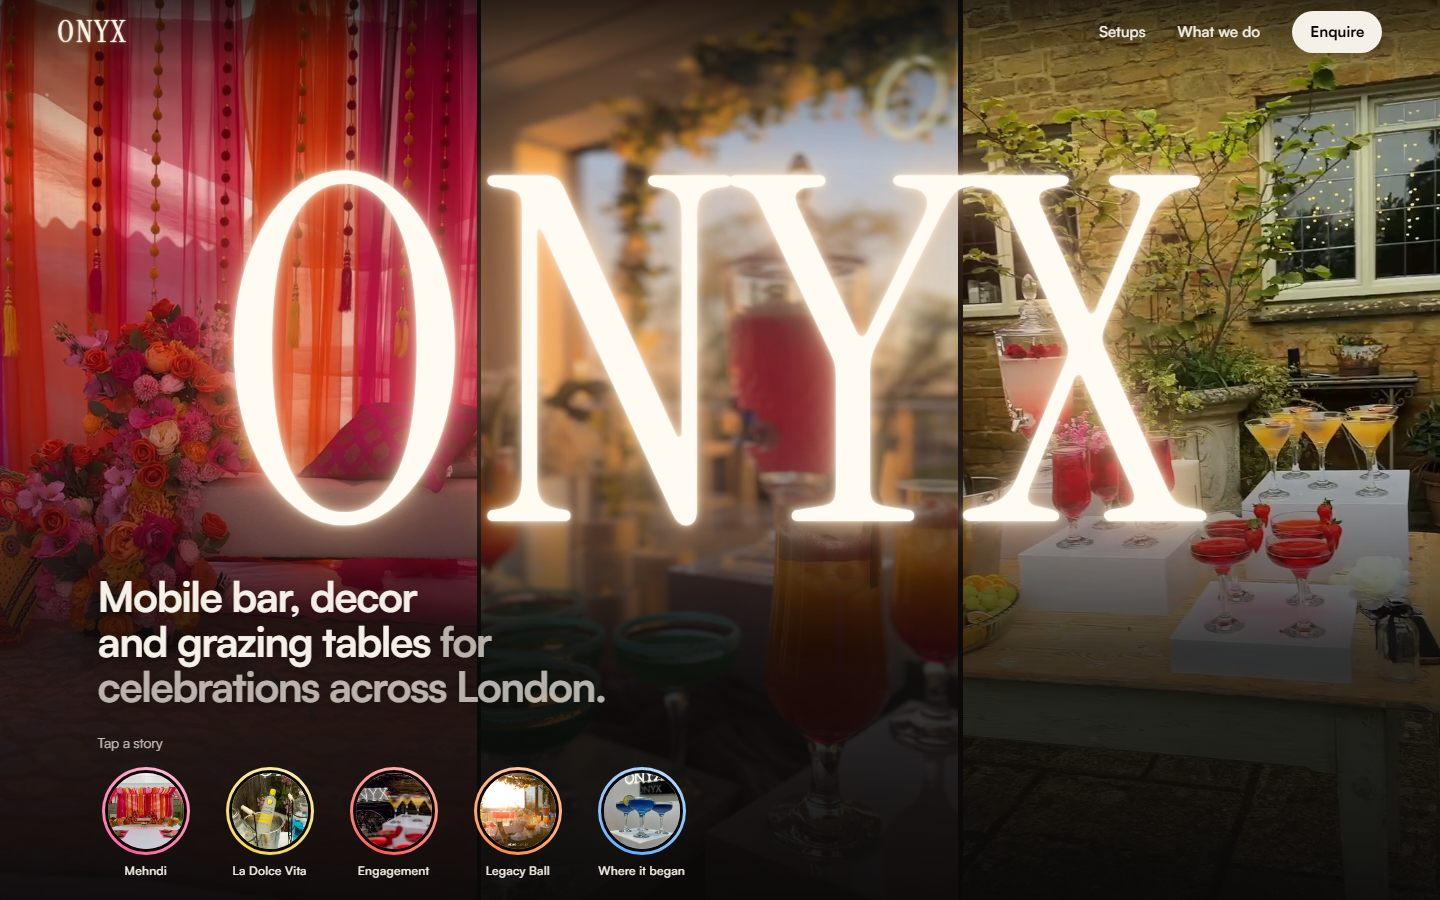
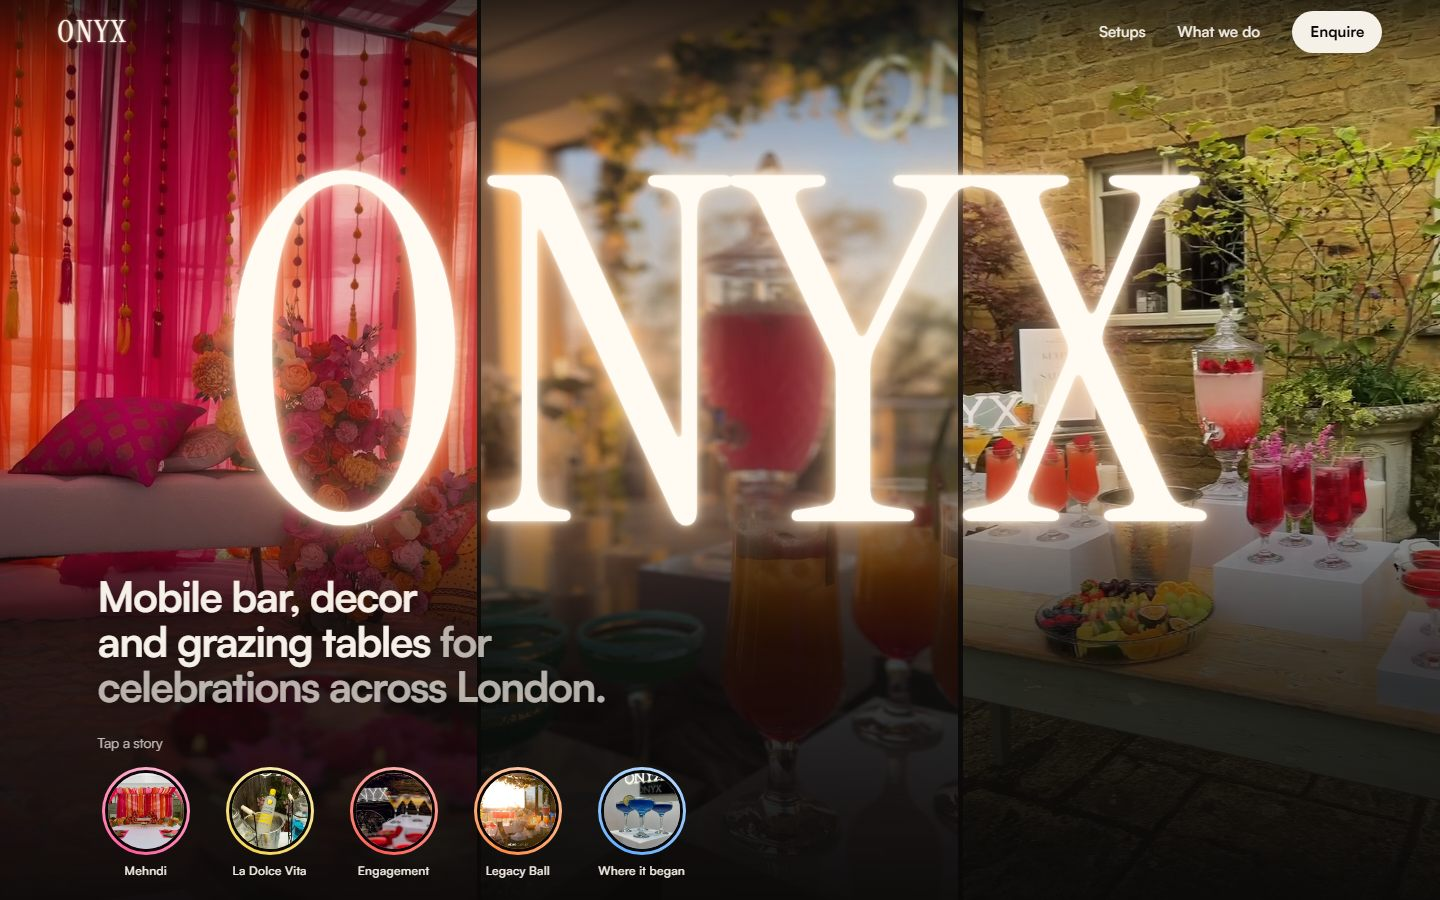
Startanimation mit Onyx Events London, neuer SNP-Screenshot
- Plan → Bau zeigt jetzt Onyx Events: neuer Plan und neue Bauteile
  (Navigation, Logo, Headline, Stories) für Desktop und Handy
- SNP-Projektkarte mit dem aktuellen Stand der Website
- Alter SNP-Handy-Screenshot entfernt

diff --git a/index.html b/index.html
@@ -123,22 +123,22 @@
     </div>
   </section>
 
-  <!-- ══ PLAN → BAU (baut sich selbst) ═════════════ -->
-  <section class="build" id="build" aria-label="Vom Plan zur fertigen Website am Beispiel SNP Performance">
+  <!-- ══ PLAN → BAU (Bauteil für Bauteil) ══════════ -->
+  <section class="build" id="build" aria-label="Vom Plan zur fertigen Website am Beispiel Onyx Events London">
     <div class="build__stage">
       <div class="wrap build__bar mono">
         <span class="build__phase"><i class="build__dot"></i>Phase: <b id="buildPhase">Plan</b></span>
         <span class="build__progress"><span id="buildPct">0</span>% gebaut</span>
         <button class="build__replay mono" id="buildReplay" type="button" hidden>↻ Nochmal bauen</button>
-        <span class="build__ref">Beispiel: snpperformance.ch</span>
+        <span class="build__ref">Beispiel: onyxeventsldn.co.uk</span>
       </div>
 
       <div class="wrap">
         <div class="build__site">
         <div class="build__frame" id="buildFrame">
           <picture>
-            <source media="(max-width: 760px)" srcset="assets/img/work/snpperformance-mobile.jpg" width="390" height="624" />
-            <img class="build__real" id="buildReal" src="assets/img/work/snpperformance.jpg" alt="Fertige Website von SNP Performance" width="1440" height="900" />
+            <source media="(max-width: 760px)" srcset="assets/img/work/onyxevents-mobile.jpg?v=2" width="390" height="624" />
+            <img class="build__real" id="buildReal" src="assets/img/work/onyxevents.jpg?v=2" alt="Fertige Website von Onyx Events London" width="1440" height="900" />
           </picture>
 
           <div class="build__plan" id="buildPlan" aria-hidden="true">
@@ -146,9 +146,6 @@
               <defs>
                 <pattern id="grid" width="24" height="24" patternUnits="userSpaceOnUse">
                   <path d="M24 0H0v24" class="p-grid" />
-                </pattern>
-                <pattern id="hatch" width="14" height="14" patternUnits="userSpaceOnUse" patternTransform="rotate(45)">
-                  <path d="M0 0v14" class="p-hatch" />
                 </pattern>
                 <marker id="tick" viewBox="0 0 10 10" refX="5" refY="5" markerWidth="10" markerHeight="10" orient="auto">
                   <path d="M2 8L8 2" class="p-dim" />
@@ -158,62 +155,60 @@
               <rect width="1440" height="900" class="p-paper" />
               <rect width="1440" height="900" fill="url(#grid)" />
 
+              <!-- Bildwand: drei Bildspalten -->
+              <line x1="480" y1="66" x2="480" y2="900" class="p-thin" />
+              <line x1="960" y1="66" x2="960" y2="900" class="p-thin" />
+              <text x="1200" y="610" class="p-label" text-anchor="middle">BILD 03</text>
+
               <!-- Navigation -->
               <line x1="0" y1="66" x2="1440" y2="66" class="p-line" />
-              <rect x="44" y="14" width="38" height="38" rx="8" class="p-line" />
-              <rect x="94" y="22" width="190" height="20" class="p-block" />
-              <rect x="636" y="27" width="82" height="12" class="p-block" />
-              <rect x="746" y="27" width="60" height="12" class="p-block" />
-              <rect x="834" y="27" width="28" height="12" class="p-block" />
-              <rect x="890" y="27" width="56" height="12" class="p-block" />
-              <rect x="1299" y="14" width="98" height="38" rx="19" class="p-line" />
+              <rect x="58" y="20" width="70" height="24" class="p-block" />
+              <rect x="1098" y="27" width="48" height="12" class="p-block" />
+              <rect x="1177" y="27" width="84" height="12" class="p-block" />
+              <rect x="1292" y="11" width="90" height="42" rx="21" class="p-line" />
 
-              <!-- Eyebrow + Headline -->
-              <rect x="150" y="186" width="386" height="12" class="p-block p-block--accent" />
-              <rect x="150" y="214" width="424" height="366" class="p-line" />
-              <path d="M150 214L574 580M574 214L150 580" class="p-thin" />
-              <text x="362" y="404" class="p-label" text-anchor="middle">H1 · HEADLINE</text>
+              <!-- Wortmarke -->
+              <rect x="232" y="170" width="968" height="356" class="p-line" />
+              <path d="M232 170L1200 526M1200 170L232 526" class="p-thin" />
+              <rect x="590" y="334" width="252" height="30" class="p-paper" />
+              <text x="716" y="355" class="p-label" text-anchor="middle">LOGO · WORTMARKE</text>
 
-              <!-- Text -->
-              <rect x="150" y="620" width="488" height="14" class="p-block" />
-              <rect x="150" y="652" width="460" height="14" class="p-block" />
-              <rect x="150" y="684" width="92" height="14" class="p-block" />
+              <line x1="232" y1="140" x2="1200" y2="140" class="p-dim" marker-start="url(#tick)" marker-end="url(#tick)" />
+              <line x1="232" y1="130" x2="232" y2="160" class="p-dim" />
+              <line x1="1200" y1="130" x2="1200" y2="160" class="p-dim" />
+              <rect x="686" y="128" width="60" height="24" class="p-paper" />
+              <text x="716" y="146" class="p-dimtext" text-anchor="middle">968</text>
 
-              <!-- Buttons -->
-              <rect x="150" y="740" width="180" height="48" rx="24" class="p-line p-fill-accent" />
-              <rect x="344" y="740" width="224" height="48" rx="24" class="p-line" />
+              <!-- Headline -->
+              <rect x="98" y="584" width="318" height="30" class="p-block" />
+              <rect x="98" y="629" width="392" height="30" class="p-block" />
+              <rect x="98" y="674" width="508" height="30" class="p-block p-block--accent" />
 
-              <!-- Bildfläche -->
-              <rect x="751" y="262" width="538" height="660" rx="24" fill="url(#hatch)" class="p-line" />
-              <rect x="931" y="530" width="178" height="40" class="p-paper" />
-              <text x="1020" y="556" class="p-label" text-anchor="middle">BILDFLÄCHE</text>
-
-              <!-- Masslinien -->
-              <line x1="751" y1="232" x2="1289" y2="232" class="p-dim" marker-start="url(#tick)" marker-end="url(#tick)" />
-              <line x1="751" y1="222" x2="751" y2="252" class="p-dim" />
-              <line x1="1289" y1="222" x2="1289" y2="252" class="p-dim" />
-              <rect x="990" y="220" width="60" height="24" class="p-paper" />
-              <text x="1020" y="238" class="p-dimtext" text-anchor="middle">538</text>
-
-              <line x1="112" y1="214" x2="112" y2="580" class="p-dim" marker-start="url(#tick)" marker-end="url(#tick)" />
-              <line x1="102" y1="214" x2="132" y2="214" class="p-dim" />
-              <line x1="102" y1="580" x2="132" y2="580" class="p-dim" />
-              <rect x="98" y="378" width="28" height="52" class="p-paper" />
-              <text x="112" y="404" class="p-dimtext" text-anchor="middle" transform="rotate(-90 112 404)">366</text>
-
-              <line x1="150" y1="816" x2="568" y2="816" class="p-dim" marker-start="url(#tick)" marker-end="url(#tick)" />
-              <rect x="330" y="804" width="58" height="24" class="p-paper" />
-              <text x="359" y="822" class="p-dimtext" text-anchor="middle">418</text>
+              <!-- Stories -->
+              <rect x="98" y="738" width="66" height="10" class="p-block" />
+              <circle cx="145" cy="810" r="43" class="p-line" />
+              <circle cx="269" cy="810" r="43" class="p-line" />
+              <circle cx="393" cy="810" r="43" class="p-line" />
+              <circle cx="517" cy="810" r="43" class="p-line" />
+              <circle cx="641" cy="810" r="43" class="p-line p-fill-accent" />
+              <rect x="121" y="865" width="48" height="9" class="p-block" />
+              <rect x="235" y="865" width="68" height="9" class="p-block" />
+              <rect x="356" y="865" width="74" height="9" class="p-block" />
+              <rect x="485" y="865" width="64" height="9" class="p-block" />
+              <rect x="598" y="865" width="86" height="9" class="p-block" />
+              <line x1="102" y1="726" x2="684" y2="726" class="p-dim" marker-start="url(#tick)" marker-end="url(#tick)" />
+              <rect x="363" y="714" width="56" height="24" class="p-paper" />
+              <text x="391" y="732" class="p-dimtext" text-anchor="middle">582</text>
 
               <!-- Positionsmarken -->
               <g class="p-callout"><circle cx="330" cy="98" r="16" /><text x="330" y="104" text-anchor="middle">A</text></g>
               <text x="356" y="104" class="p-note">Navigation</text>
-              <g class="p-callout"><circle cx="560" cy="146" r="16" /><text x="560" y="152" text-anchor="middle">B</text></g>
-              <text x="586" y="152" class="p-note">Headline</text>
-              <g class="p-callout"><circle cx="610" cy="764" r="16" /><text x="610" y="770" text-anchor="middle">C</text></g>
-              <text x="636" y="770" class="p-note">Anfrage</text>
-              <g class="p-callout"><circle cx="1320" cy="300" r="16" /><text x="1320" y="306" text-anchor="middle">D</text></g>
-              <text x="1346" y="306" class="p-note">Bild</text>
+              <g class="p-callout"><circle cx="1236" cy="196" r="16" /><text x="1236" y="202" text-anchor="middle">B</text></g>
+              <text x="1262" y="202" class="p-note">Logo</text>
+              <g class="p-callout"><circle cx="652" cy="600" r="16" /><text x="652" y="606" text-anchor="middle">C</text></g>
+              <text x="678" y="606" class="p-note">Headline</text>
+              <g class="p-callout"><circle cx="728" cy="810" r="16" /><text x="728" y="816" text-anchor="middle">D</text></g>
+              <text x="754" y="816" class="p-note">Stories</text>
             </svg>
 
             <!-- Plan der Handy-Ansicht -->
@@ -221,9 +216,6 @@
               <defs>
                 <pattern id="grid-m" width="16" height="16" patternUnits="userSpaceOnUse">
                   <path d="M16 0H0v16" class="p-grid" />
-                </pattern>
-                <pattern id="hatch-m" width="10" height="10" patternUnits="userSpaceOnUse" patternTransform="rotate(45)">
-                  <path d="M0 0v10" class="p-hatch" />
                 </pattern>
                 <marker id="tick-m" viewBox="0 0 10 10" refX="5" refY="5" markerWidth="8" markerHeight="8" orient="auto">
                   <path d="M2 8L8 2" class="p-dim" />
@@ -234,48 +226,40 @@
               <rect width="390" height="624" fill="url(#grid-m)" />
 
               <!-- Navigation -->
-              <line x1="0" y1="66" x2="390" y2="66" class="p-line" />
-              <rect x="18" y="13" width="40" height="40" rx="9" class="p-line" />
-              <rect x="68" y="24" width="150" height="18" class="p-block" />
-              <path d="M342 25h22M342 33h22M342 41h22" class="p-line" />
+              <line x1="0" y1="62" x2="390" y2="62" class="p-line" />
+              <rect x="16" y="20" width="68" height="20" class="p-block" />
+              <rect x="284" y="10" width="90" height="42" rx="21" class="p-line" />
 
-              <!-- Bildfläche mit Karte -->
-              <rect x="20" y="128" width="350" height="195" rx="24" fill="url(#hatch-m)" class="p-line" />
-              <rect x="40" y="244" width="310" height="60" rx="14" class="p-paper" />
-              <rect x="40" y="244" width="310" height="60" rx="14" class="p-line" />
-              <rect x="58" y="262" width="130" height="11" class="p-block" />
-              <rect x="58" y="281" width="170" height="9" class="p-block" />
-              <rect x="146" y="172" width="98" height="24" class="p-paper" />
-              <text x="195" y="189" class="p-label" text-anchor="middle">BILDFLÄCHE</text>
+              <!-- Wortmarke -->
+              <rect x="45" y="190" width="300" height="115" class="p-line" />
+              <path d="M45 190L345 305M345 190L45 305" class="p-thin" />
+              <rect x="160" y="237" width="70" height="20" class="p-paper" />
+              <text x="195" y="251" class="p-label" text-anchor="middle">LOGO</text>
 
-              <!-- Masslinie Bild -->
-              <line x1="20" y1="110" x2="370" y2="110" class="p-dim" marker-start="url(#tick-m)" marker-end="url(#tick-m)" />
-              <line x1="20" y1="102" x2="20" y2="118" class="p-dim" />
-              <line x1="370" y1="102" x2="370" y2="118" class="p-dim" />
-              <rect x="177" y="100" width="36" height="20" class="p-paper" />
-              <text x="195" y="114" class="p-dimtext" text-anchor="middle">350</text>
+              <!-- Headline -->
+              <rect x="16" y="328" width="300" height="18" class="p-block" />
+              <rect x="16" y="356" width="270" height="18" class="p-block" />
+              <rect x="16" y="384" width="300" height="18" class="p-block p-block--accent" />
+              <rect x="16" y="422" width="130" height="10" class="p-block" />
 
-              <!-- Eyebrow + Headline -->
-              <rect x="20" y="362" width="24" height="4" class="p-block p-block--accent" />
-              <rect x="54" y="358" width="236" height="11" class="p-block p-block--accent" />
-              <rect x="20" y="392" width="210" height="176" class="p-line" />
-              <path d="M20 392L230 568M230 392L20 568" class="p-thin" />
-              <rect x="95" y="470" width="60" height="20" class="p-paper" />
-              <text x="125" y="484" class="p-label" text-anchor="middle">H1</text>
+              <!-- Stories -->
+              <rect x="16" y="462" width="70" height="8" class="p-block" />
+              <circle cx="44" cy="528" r="36" class="p-line" />
+              <circle cx="136" cy="528" r="36" class="p-line" />
+              <circle cx="228" cy="528" r="36" class="p-line" />
+              <circle cx="320" cy="528" r="36" class="p-line p-fill-accent" />
 
-              <line x1="20" y1="590" x2="230" y2="590" class="p-dim" marker-start="url(#tick-m)" marker-end="url(#tick-m)" />
-              <rect x="107" y="580" width="36" height="20" class="p-paper" />
-              <text x="125" y="594" class="p-dimtext" text-anchor="middle">210</text>
-
-              <circle cx="343" cy="569" r="23" class="p-line" />
+              <line x1="45" y1="170" x2="345" y2="170" class="p-dim" marker-start="url(#tick-m)" marker-end="url(#tick-m)" />
+              <rect x="177" y="160" width="36" height="20" class="p-paper" />
+              <text x="195" y="174" class="p-dimtext" text-anchor="middle">300</text>
 
               <!-- Positionsmarken -->
-              <g class="p-callout"><circle cx="250" cy="44" r="11" /><text x="250" y="48" text-anchor="middle">A</text></g>
-              <text x="266" y="48" class="p-note">Nav</text>
-              <g class="p-callout"><circle cx="44" cy="152" r="11" /><text x="44" y="156" text-anchor="middle">B</text></g>
-              <text x="60" y="156" class="p-note">Bild</text>
-              <g class="p-callout"><circle cx="250" cy="410" r="11" /><text x="250" y="414" text-anchor="middle">C</text></g>
-              <text x="266" y="414" class="p-note">Headline</text>
+              <g class="p-callout"><circle cx="200" cy="90" r="11" /><text x="200" y="94" text-anchor="middle">A</text></g>
+              <text x="216" y="94" class="p-note">Nav</text>
+              <g class="p-callout"><circle cx="44" cy="140" r="11" /><text x="44" y="144" text-anchor="middle">B</text></g>
+              <text x="60" y="144" class="p-note">Logo</text>
+              <g class="p-callout"><circle cx="352" cy="340" r="11" /><text x="352" y="344" text-anchor="middle">C</text></g>
+              <g class="p-callout"><circle cx="360" cy="472" r="11" /><text x="360" y="476" text-anchor="middle">D</text></g>
             </svg>
           </div>
 
@@ -305,7 +289,7 @@
               <div><dt>Adresse</dt><dd>onyxeventsldn.co.uk <span class="arr">↗</span></dd></div>
             </dl>
           </div>
-          <figure class="sheet__shot"><img src="assets/img/work/onyxevents.jpg" alt="Startseite von Onyx Events in London" width="1440" height="900" loading="lazy" decoding="async" /></figure>
+          <figure class="sheet__shot"><img src="assets/img/work/onyxevents.jpg?v=2" alt="Startseite von Onyx Events in London" width="1440" height="900" loading="lazy" decoding="async" /></figure>
         </a>
       </article>
 
@@ -324,7 +308,7 @@
               <div><dt>Adresse</dt><dd>snpperformance.ch <span class="arr">↗</span></dd></div>
             </dl>
           </div>
-          <figure class="sheet__shot"><img src="assets/img/work/snpperformance.jpg" alt="Startseite von SNP Performance" width="1440" height="900" loading="lazy" decoding="async" /></figure>
+          <figure class="sheet__shot"><img src="assets/img/work/snpperformance.jpg?v=2" alt="Startseite von SNP Performance" width="1440" height="900" loading="lazy" decoding="async" /></figure>
         </a>
       </article>
 

diff --git a/assets/js/script.js b/assets/js/script.js
@@ -120,15 +120,16 @@ const mobile = window.matchMedia('(max-width: 760px)');
 // Bauteile in Pixeln der jeweiligen Aufnahme: [x, y, Breite, Höhe]
 const PARTS = {
   desk: { w: 1440, h: 900, parts: [
-    { key: 'A', name: 'Navigation', box: [0, 0, 1440, 67] },
-    { key: 'B', name: 'Headline',   box: [130, 168, 530, 542] },
-    { key: 'C', name: 'Anfrage',    box: [130, 722, 460, 86] },
-    { key: 'D', name: 'Bild',       box: [735, 246, 570, 654] },
+    { key: 'A', name: 'Navigation', box: [0, 0, 1440, 66] },
+    { key: 'B', name: 'Logo',       box: [220, 160, 992, 378] },
+    { key: 'C', name: 'Headline',   box: [90, 574, 530, 140] },
+    { key: 'D', name: 'Stories',    box: [90, 736, 610, 164] },
   ]},
   mob: { w: 390, h: 624, parts: [
-    { key: 'A', name: 'Navigation', box: [0, 0, 390, 66] },
-    { key: 'B', name: 'Bild',       box: [8, 96, 374, 240] },
-    { key: 'C', name: 'Headline',   box: [8, 345, 374, 270] },
+    { key: 'A', name: 'Navigation', box: [0, 0, 390, 62] },
+    { key: 'B', name: 'Logo',       box: [30, 180, 330, 135] },
+    { key: 'C', name: 'Headline',   box: [8, 318, 374, 124] },
+    { key: 'D', name: 'Stories',    box: [0, 452, 390, 150] },
   ]},
 };
 
